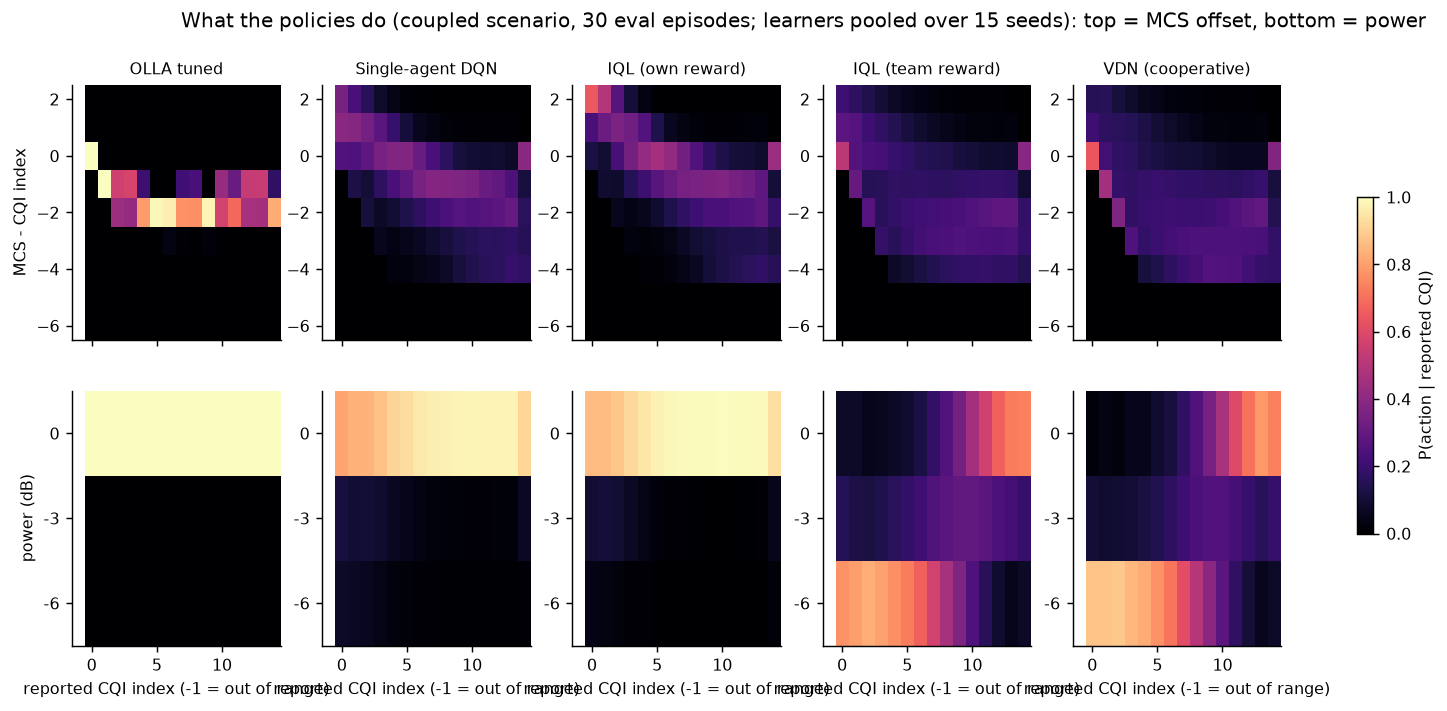
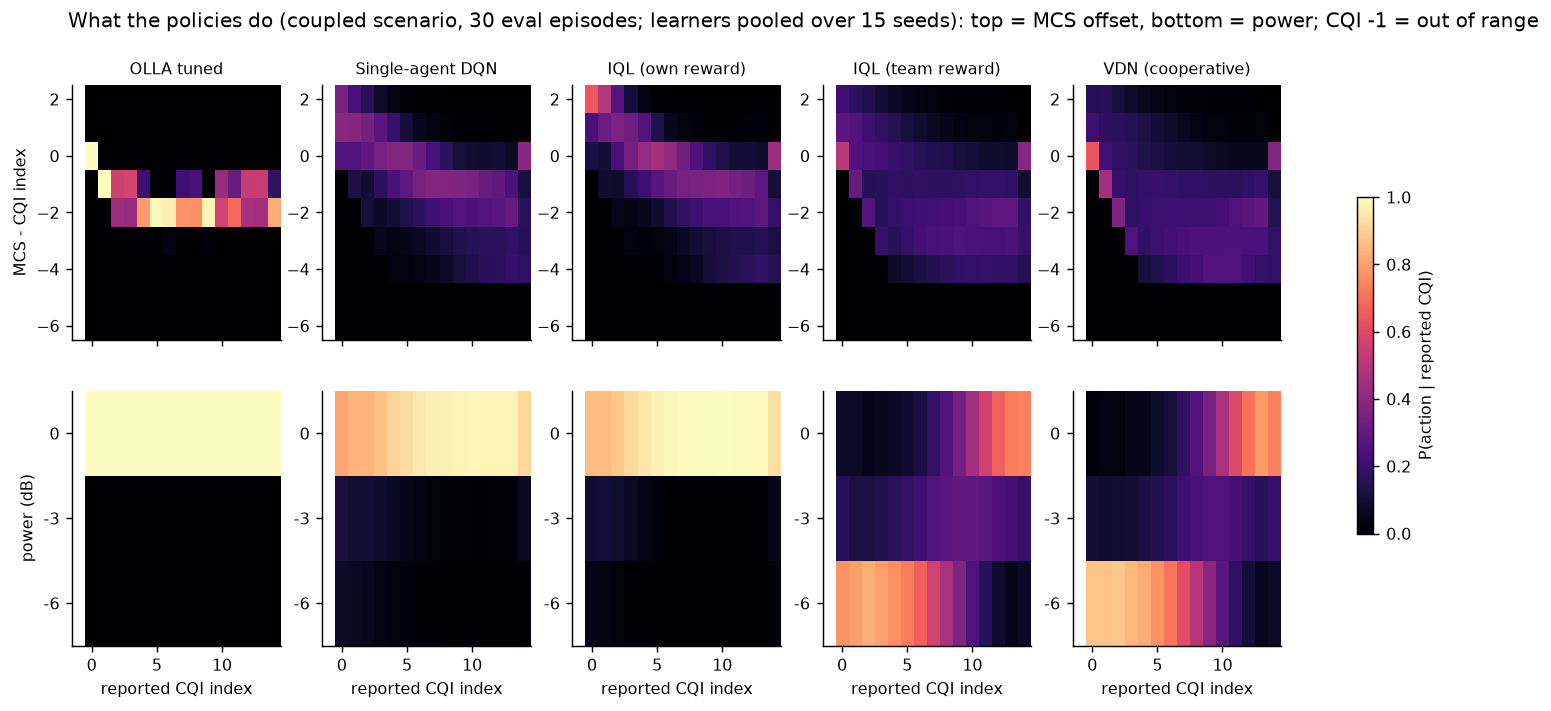
Figures: label fixes

diff --git a/scripts/make_figures.py b/scripts/make_figures.py
@@ -235,9 +235,9 @@ def action_heatmaps(res, out, sc="default"):
                        extent=[cq[0] - 0.5, cq[-1] + 0.5, -0.5, 2.5])
         ax.set_yticks([0, 1, 2], ["-6", "-3", "0"])
         ax.set_ylabel("power (dB)" if j == 0 else "")
-        ax.set_xlabel("reported CQI index (-1 = out of range)")
+        ax.set_xlabel("reported CQI index")
     fig.colorbar(im, ax=axes, shrink=0.6, label="P(action | reported CQI)")
-    fig.suptitle(f"What the policies do ({sc} scenario, 30 eval episodes; learners pooled over 15 seeds): top = MCS offset, bottom = power")
+    fig.suptitle(f"What the policies do ({sc} scenario, 30 eval episodes; learners pooled over 15 seeds): top = MCS offset, bottom = power; CQI -1 = out of range")
     save(fig, out, f"actions_{sc}.png")
 
 
